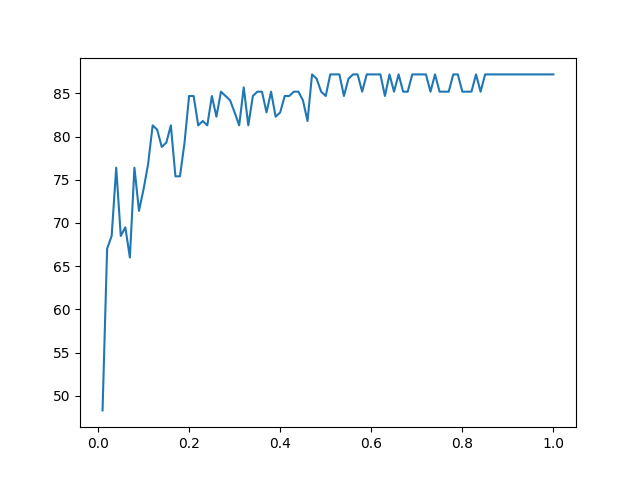
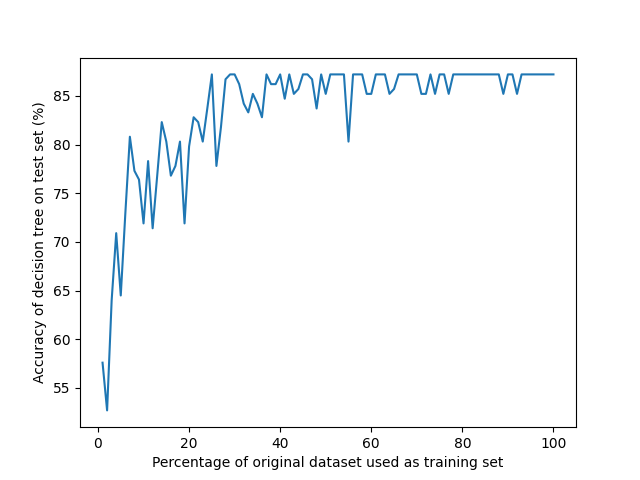
Modify graphs

diff --git a/hw1/main.py b/hw1/main.py
@@ -161,7 +161,9 @@ def plotting_multi(steps):
     sessions = pool.map(main, percent_dataset)
     for session in sessions:
         acc_series.append(session[2])
-    #plt.plot(percent_dataset, acc_series)
+    #plt.plot(percent_dataset*100, acc_series)
+    #plt.xlabel("Percentage of original dataset used as training set")
+    #plt.ylabel("Accuracy of decision tree on test set (%)")
     #plt.show()
 
 if __name__ == "__main__":
